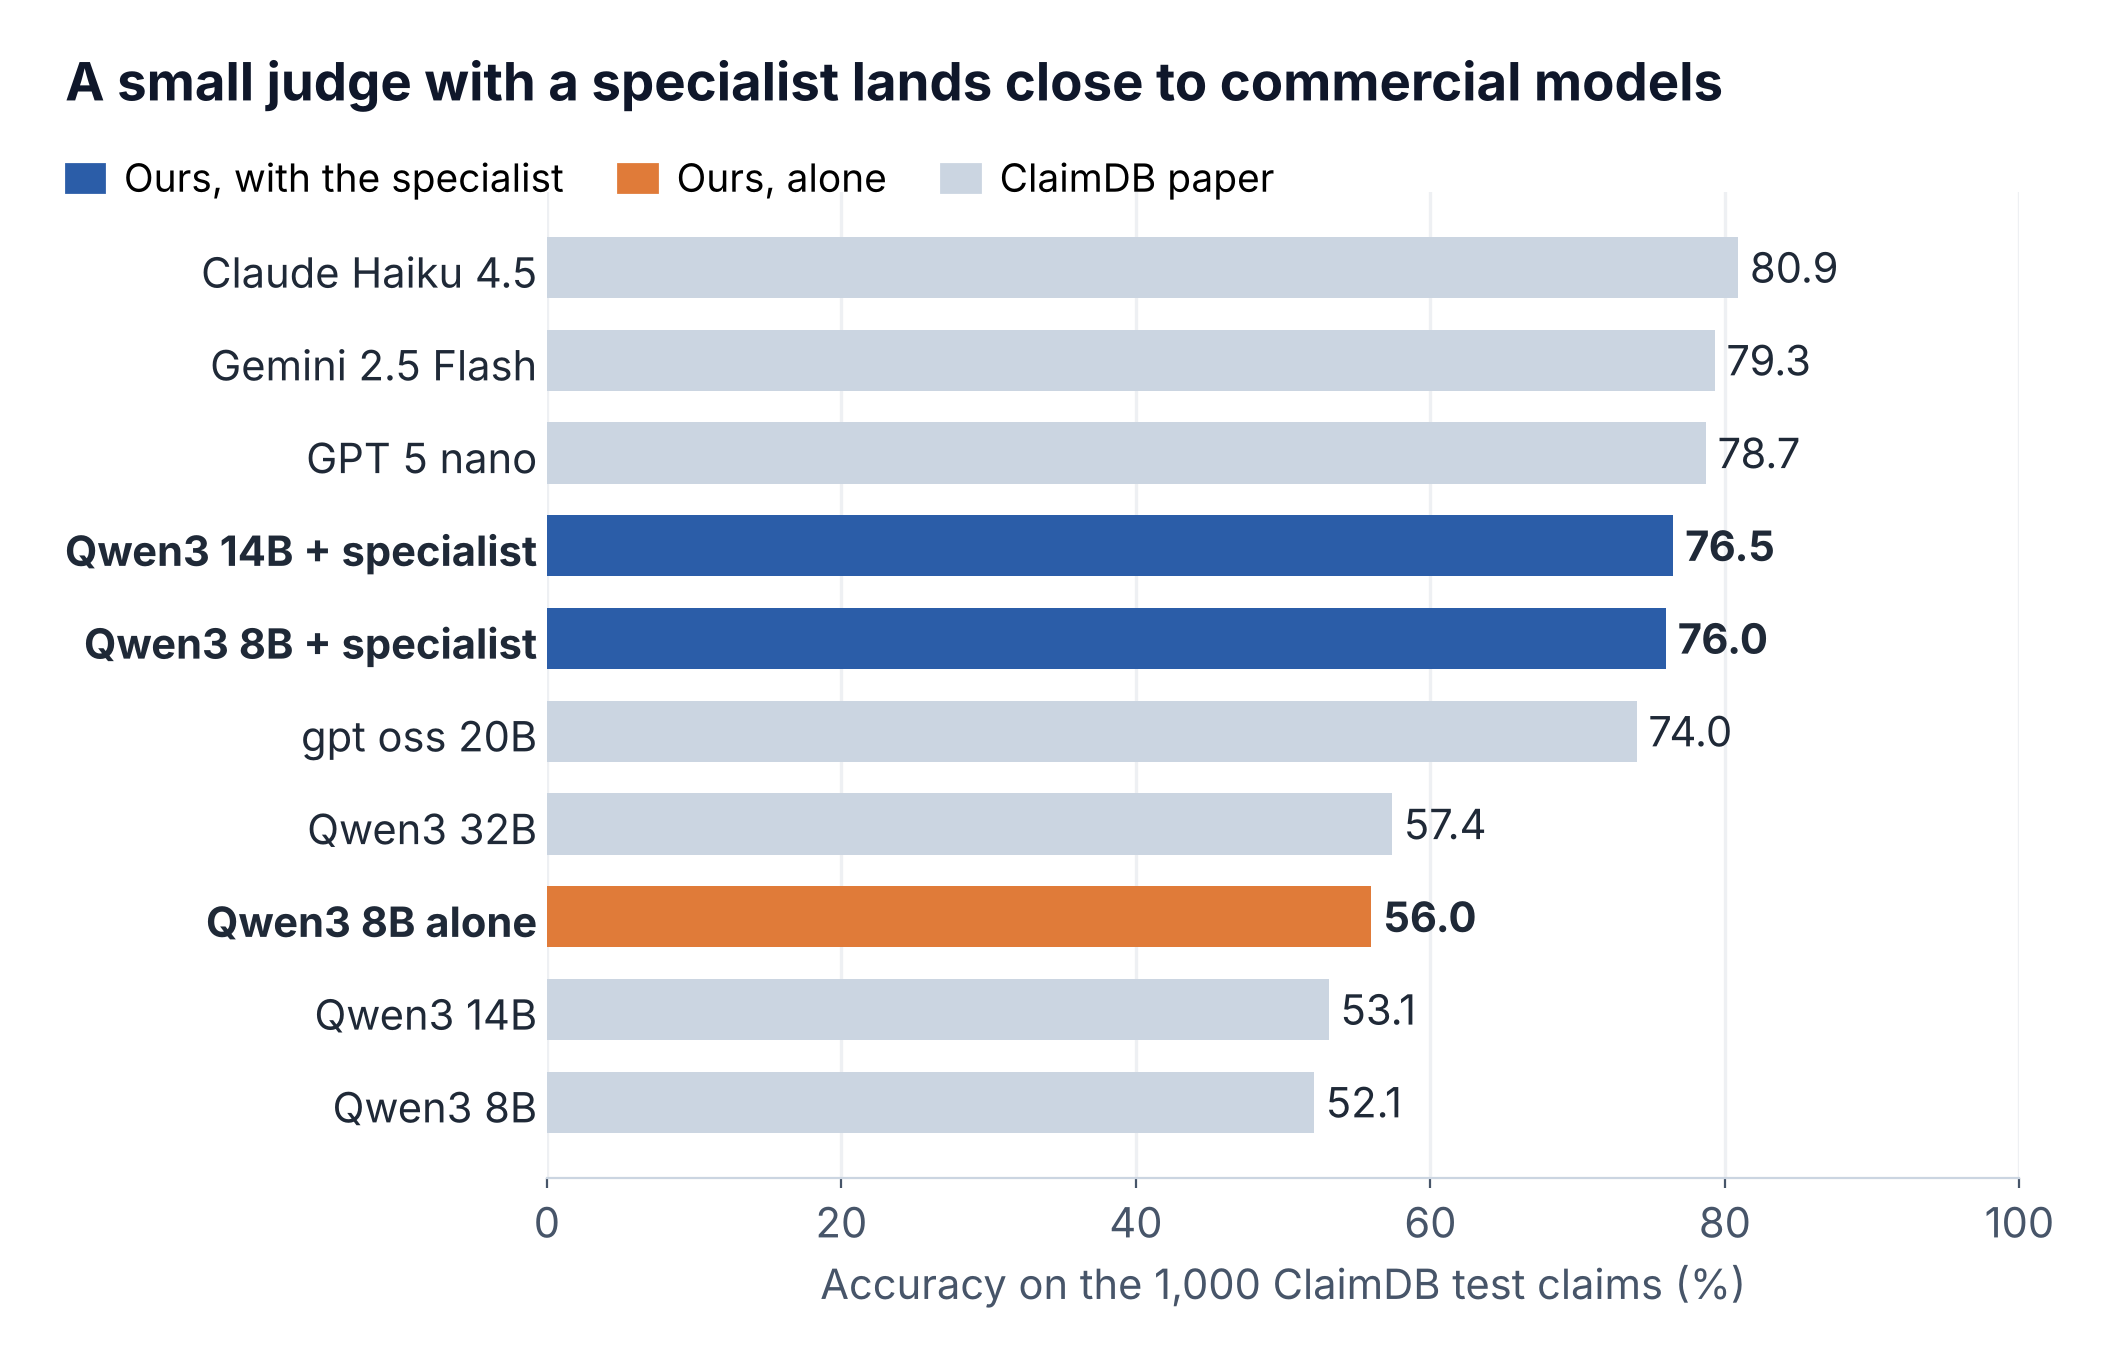
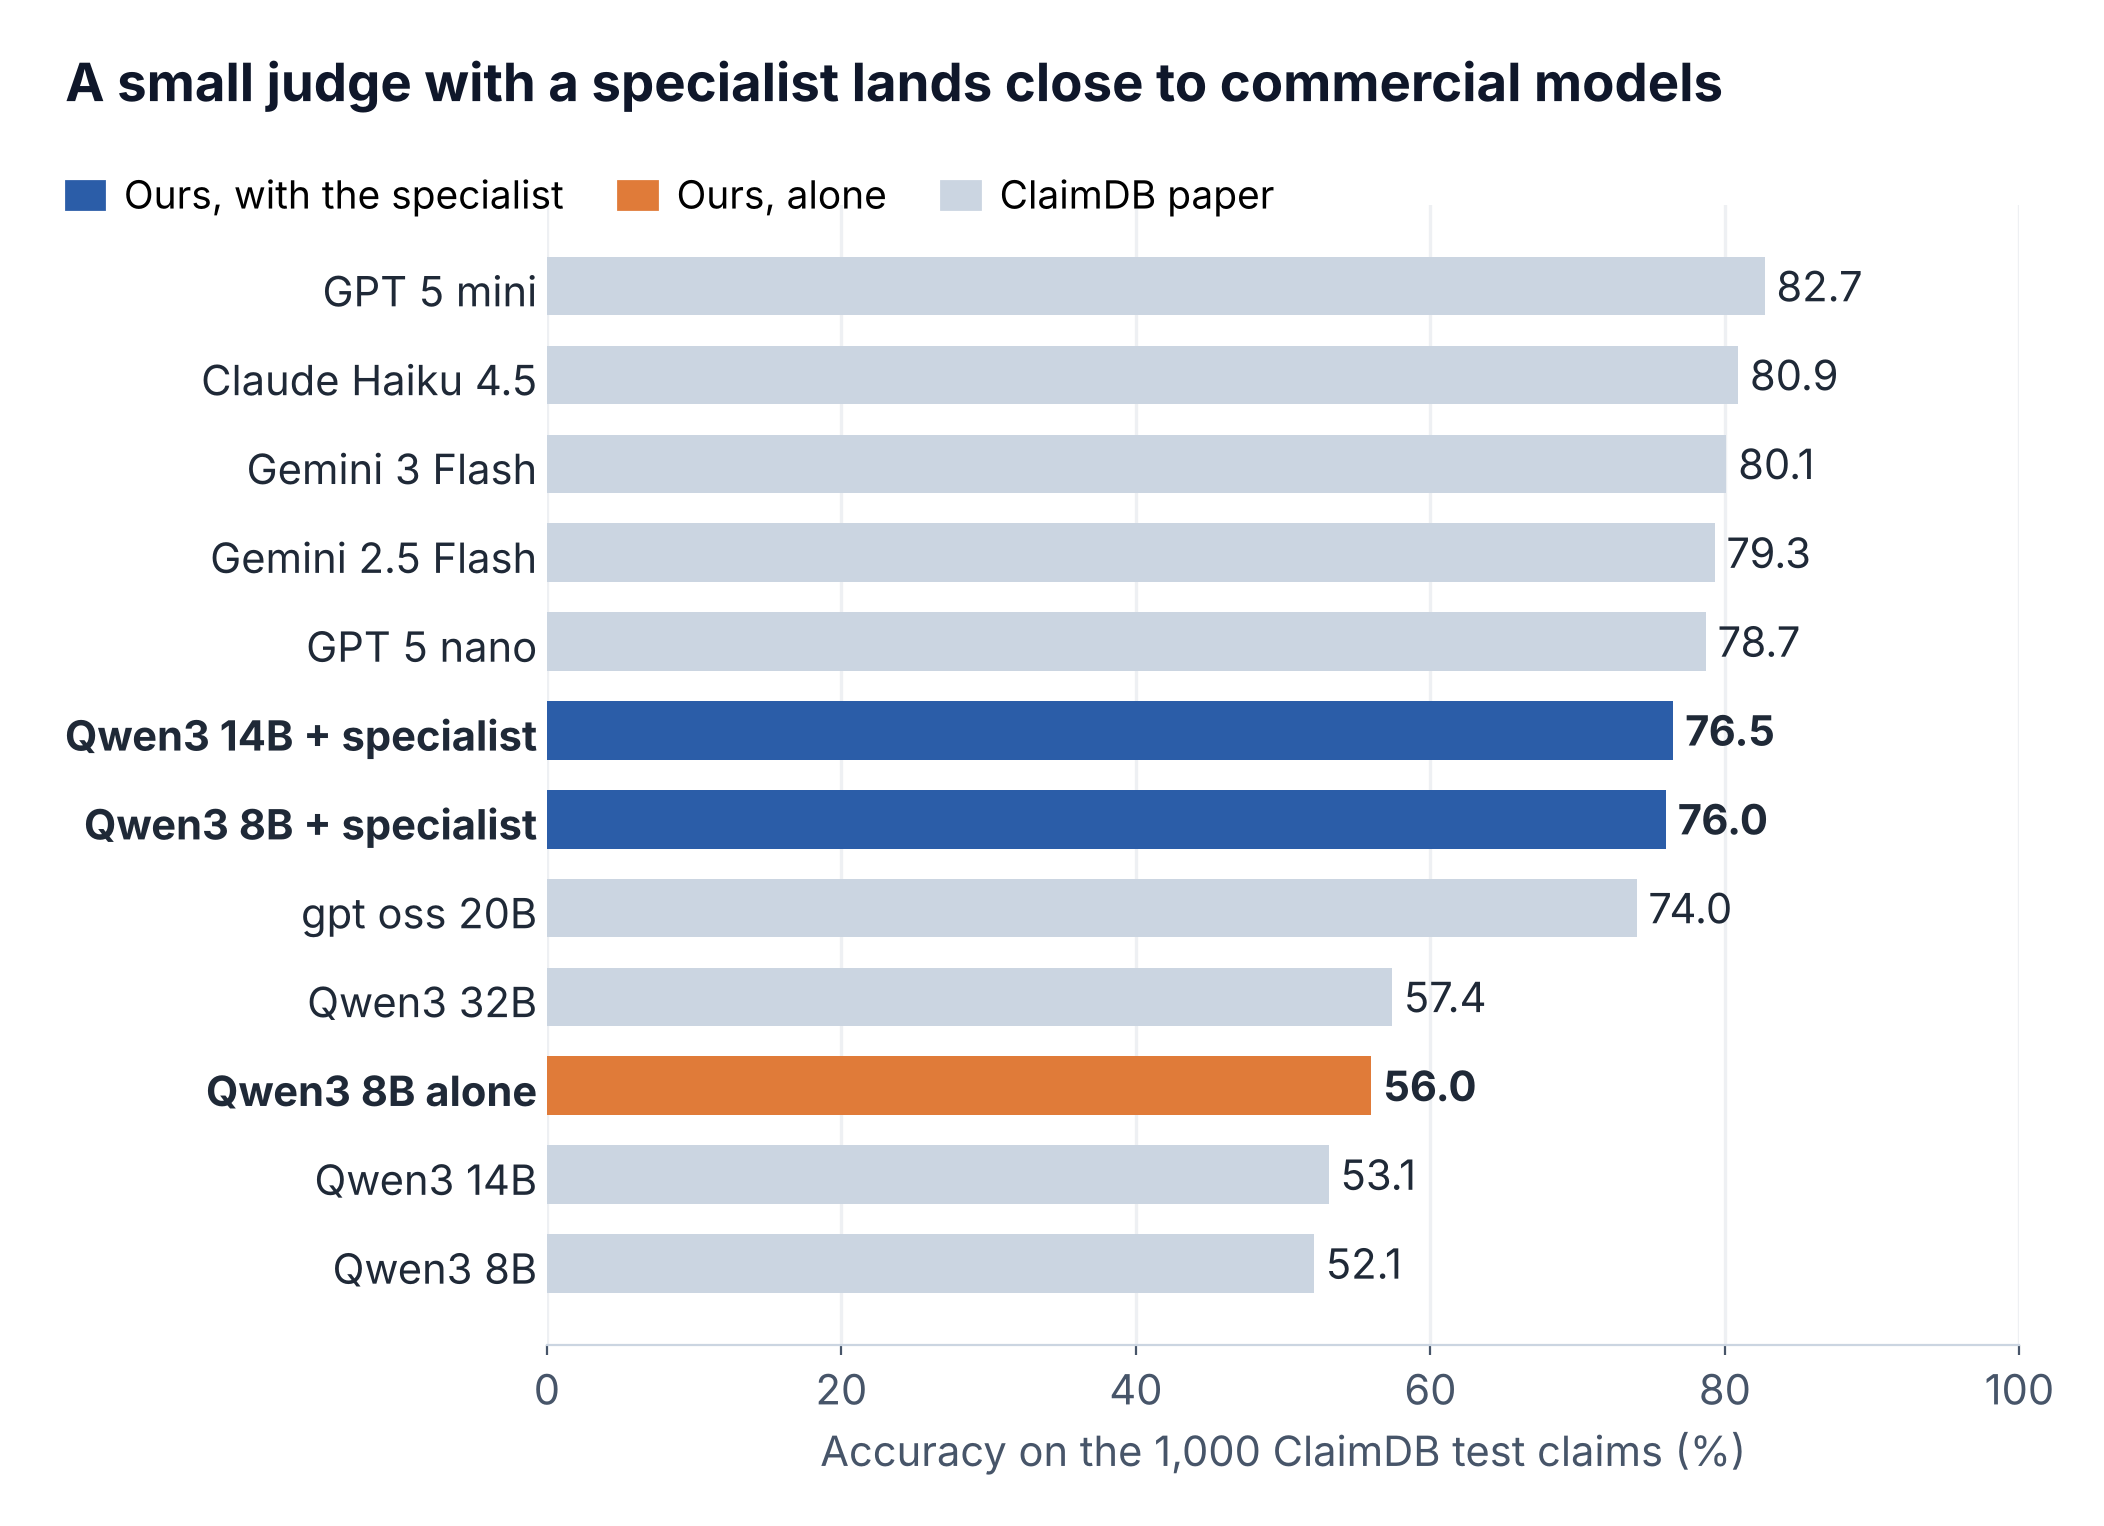
Fixing blog errors

Changed region(s): [[0.0309, 0.1236, 0.8959, 0.9581], [0.0309, 0.0309, 0.8341, 0.0927], [0.9268, 0.8653, 0.9886, 0.9272]]

diff --git a/Kanishk/blog/v3/blog.html b/Kanishk/blog/v3/blog.html
@@ -43,7 +43,7 @@ code{font-family:'DejaVu Sans Mono',monospace;font-size:16px;background:#f3f4f6;
 
 <h2>Related work</h2>
 <h3>Checking claims against tables and databases</h3>
-<p>Early work checked claims against small tables that fit inside the model's input. TabFact <a href="#r3">[3]</a> is the best known example, with claims about Wikipedia tables. Real databases are far too big for that, so newer systems let an LLM query the database instead. Thucy <a href="#r2">[2]</a> uses several cooperating LLM agents to verify claims across relational databases. ClaimDB <a href="#r1">[1]</a> gives a single judge a SQL tool and evaluates 30 models on large databases from BIRD. Both get their best results from large models. In ClaimDB, open models with at most 14B parameters mostly land between 34% and 62%.</p>
+<p>Early work checked claims against small tables that fit inside the model's input. TabFact <a href="#r3">[3]</a> is the best known example, with claims about Wikipedia tables. Real databases are far too big for that, so newer systems let an LLM query the database instead. Thucy <a href="#r2">[2]</a> uses several cooperating LLM agents to verify claims across relational databases. ClaimDB <a href="#r1">[1]</a> gives a single judge a SQL tool and evaluates 30 models on large databases from BIRD. Both get their best results from large models. In ClaimDB, the open models with at most 14B parameters land between 34% and 62%.</p>
 <p>We keep ClaimDB's task and setup but focus on small open judges. We do not train or change the judge. We change the tool it uses, and we study when a cheaper tool is good enough.</p>
 <h3>Text to SQL specialists</h3>
 <p>Text to SQL has improved fast, helped by benchmarks such as BIRD <a href="#r4">[4]</a>. Some 7B models are now trained for nothing else. Arctic Text2SQL R1 7B <a href="#r5">[5]</a> answers 68.9% of BIRD's development questions correctly, according to its authors. OmniSQL <a href="#r6">[6]</a> trains models of several sizes on large amounts of synthetic data. These models answer questions. They were never built to judge whether a claim is true.</p>
@@ -58,7 +58,7 @@ code{font-family:'DejaVu Sans Mono',monospace;font-size:16px;background:#f3f4f6;
 
 <h3>Why small judges fail</h3>
 <p>Take the Scotland claim from above. The answer sits in a football database with seven tables. We gave this claim to Qwen3 8B with ClaimDB's SQL tool. Its first query asked for a table called <code>matches</code>, which does not exist. It then listed the tables and looked inside the <code>Match</code> table. It found no league names there, so it gave up and said NEI. The claim is true. A single join between the <code>League</code> and <code>Match</code> tables shows 228 matches.</p>
-<p>This was not a one off. We went through ClaimDB's released runs for 11 open models with at most 14B parameters. When a judge queried a table or column that does not exist, it got the claim right only 20.8% of the time. When all of its queries ran, it was right 43.8% of the time. Across 19 models, the more failed tool calls a model made, the lower its accuracy (correlation of −0.88). For small models, writing SQL for a database they have never seen looks like the main bottleneck.</p>
+<p>This was not a one off. We went through ClaimDB's released runs for 11 open models with at most 14B parameters, looking only at the true or false claims. When a judge queried a table or column that does not exist, it got the claim right only 20.8% of the time. When all of its queries ran, it was right 43.8% of the time. Across 19 models, the more failed tool calls a model made, the lower its accuracy (correlation of −0.88). For small models, writing SQL for a database they have never seen looks like the main bottleneck.</p>
 
 <h3>Two setups: A and C</h3>
 <p>We compare two setups (Figure 1). They use the same judge, the same prompt and the same answer format. Both allow up to 20 tool calls per claim. Only the tool is different.</p>
@@ -78,7 +78,7 @@ code{font-family:'DejaVu Sans Mono',monospace;font-size:16px;background:#f3f4f6;
 <h4>RQ1: Does a SQL specialist make a small judge more accurate?</h4>
 <p>Yes, by a lot. On its own, Qwen3 8B scores 56.0%, right where the other small open models sit in Figure 3. With the specialist it scores 76.0%. That is a gain of 20.0 points, with a 95% confidence interval of 16.4 to 23.5. Setup C gets 283 claims right that setup A misses, while A gets only 83 that C misses (p &lt; 0.001). C also wins on every one of the 11 databases, by 8.9 to 34.1 points.</p>
 <figure><img src="fig/fig3_vs_claimdb.png"><figcaption><b>Figure 3.</b> Accuracy on the 1,000 ClaimDB test claims. Blue and orange bars are our runs. Grey bars are the numbers reported in the ClaimDB paper, which used its own harness.</figcaption></figure>
-<p>That puts an 8B judge ahead of every open model in the ClaimDB paper, including gpt oss 20B at 74.0%. It is a few points behind GPT 5 nano (78.7%) and Gemini 2.5 Flash (79.3%). We want to be careful with this comparison. Our harness scores the same Qwen3 8B model 3.9 points higher than ClaimDB's did (56.0% against 52.1%). Part of the distance to the grey bars may come from that difference and not from the specialist.</p>
+<p>That puts an 8B judge ahead of every open model in the ClaimDB paper, including gpt oss 20B at 74.0%. It is a few points behind GPT 5 nano (78.7%) and Gemini 2.5 Flash (79.3%), and further behind GPT 5 mini (82.7%). We want to be careful with this comparison. Our harness scores the same Qwen3 8B model 3.9 points higher than ClaimDB's did (56.0% against 52.1%). Part of the distance to the grey bars may come from that difference and not from the specialist.</p>
 <p>Where does the gain come from? Almost entirely from answerable claims. Recall on ENTAILED claims doubles, from 31.5% to 64.9%. On CONTRADICTED claims it rises from 39.3% to 80.1%. The biggest jump is on the 482 claims where setup A had queried a table or column that does not exist. On those, accuracy goes from 43.8% to 73.7%. The judge also needs fewer tool calls, about 1 per claim instead of 2.7, because it no longer has to hunt for the schema.</p>
 
 <h4>RQ2: Does the gain hold for other judges and other specialists?</h4>
@@ -108,7 +108,7 @@ code{font-family:'DejaVu Sans Mono',monospace;font-size:16px;background:#f3f4f6;
 <figure><img src="fig/fig7_claim1005_S_vs_C.gif"><figcaption><b>Figure 7.</b> Claim 1005, which the database cannot answer, in setup S and setup C. These are the exact calls from our runs with Qwen3 8B as the judge.</figcaption></figure>
 
 <h3>The router</h3>
-<p>The router is a small and fast classifier. It turns the claim and its hint into a vector of 768 numbers using a fixed embedding model (nomic embed text). A logistic regression then predicts "yes" or "no". We also tried small neural networks with one and two hidden layers, but they never did better. We trained three routers, and each one answers a different question:</p>
+<p>The router is a small and fast classifier. It turns the claim and its hint into a vector of 768 numbers using a fixed embedding model (nomic embed text). A logistic regression then predicts "yes" or "no". We also tried small neural networks with one and two hidden layers. They were never more than 0.01 AUC better, so we kept the simpler model. We trained three routers, and each one answers a different question:</p>
 <ul>
 <li><b>One table router:</b> does the claim need exactly one table?</li>
 <li><b>Two table router:</b> does the claim need two tables or fewer?</li>
@@ -131,8 +131,8 @@ code{font-family:'DejaVu Sans Mono',monospace;font-size:16px;background:#f3f4f6;
 <p>The last column of Table 2 tests an even simpler rule. When the unanswerable router says "yes", we skip the judge and answer NEI directly. This helps the weakest judges the most. Llama 3.2 3B rises from 44.3% to 53.8% (p = 0.002). On all 1,000 claims, the same rule lifts Qwen3 4B from 68.3% to 72.1% and the two Llama judges by 8 and 11 points. We report this with some caution. For those claims the router makes the call instead of the judge. The router also leans on the way ClaimDB happens to word its unanswerable claims.</p>
 
 <h3>What did not work</h3>
-<p><b>Routing by table count.</b> We expected S to shine on claims that need just one table, since one lookup should be enough. On the 215 claims that truly need one table, S scored 74.9% and C scored 76.7%. That is a tie, and S is a third faster. The trouble is the router. It only sees the claim's text, but the number of tables depends on how the database is organised. The same sentence can need one table in one database and a join in another. On the 210 claim subset, the one table router sent 75 claims to S, and only 41 of them truly needed one table. The two table router also sends claims that need a join, and S cannot join tables in one call.</p>
-<p><b>S on one table claims.</b> We read all 54 one table claims that S got wrong (Figure 11). In 30 of them, the judge fetched data and then made the wrong ENTAILED or CONTRADICTED call. Three gaps explain most of these. (1) The lookup tool has no date functions. (2) It cannot compute percentages. (3) The judge sometimes picks the wrong column. Take the claim "236 users created their accounts after 2013". Checking it needs the year of each account's creation date. The form compared the whole date with 2013, so S counted 3,278 users and said CONTRADICTED. In 9 other cases, the judge never made a lookup at all and just answered NEI.</p>
+<p><b>Routing by table count.</b> We expected S to shine on claims that need just one table, since one lookup should be enough. On the 215 claims that truly need one table, S scored 74.9% and C scored 76.7%. That is a tie, and S is a third faster. The trouble is the router. It only sees the claim's text, but the number of tables depends on how the database is organised. The same sentence can need one table in one database and a join in another. On the 210 claim subset, the one table router sent 75 claims to S. Only 23 of them truly needed one table, and it missed 18 of the 41 that did. The two table router also sends claims that need a join, and S cannot join tables in one call.</p>
+<p><b>S on one table claims.</b> We read all 54 one table claims that S got wrong (Figure 11). In 30 of them, the judge fetched data and then made the wrong ENTAILED or CONTRADICTED call. Three gaps explain most of these. (1) The lookup tool has no date functions. (2) It cannot compute percentages. (3) The judge sometimes picks the wrong column. Take the claim "236 users created their accounts after 2013 and have more than 10 views". Checking it needs the year of each account's creation date. The form compared the whole date with 2013, so S counted 3,278 users and said CONTRADICTED. In 9 other cases, the judge never made a lookup at all. Eight of those answered NEI and one guessed ENTAILED.</p>
 <figure><img src="fig/fig11_S_failures.png"><figcaption><b>Figure 11.</b> Why setup S gets 54 of the 215 one table test claims wrong, with Qwen3 8B as the judge.</figcaption></figure>
 <p><b>Speed.</b> S was supposed to save time by dropping the specialist. Over all 1,000 claims, it saved only 1.8 seconds per claim (27.2 against 29.0 seconds). Most of the time goes into the judge's own reasoning, not into the specialist. The savings only get large on claims that S settles in one or two lookups.</p>
 
@@ -155,7 +155,7 @@ code{font-family:'DejaVu Sans Mono',monospace;font-size:16px;background:#f3f4f6;
 <h3>Resources and credits</h3>
 <p><b>Code and results:</b> <a href="https://github.com/Kushagra-Agnihotri/claimdb-specialist-sql">github.com/Kushagra-Agnihotri/claimdb-specialist-sql</a>. All result files, router outputs and figure scripts are in the <code>Kanishk/</code> folder.</p>
 <p><b>Team:</b> Kushagra Agnihotri, Kanishk Didwania and Navtej Sai Singh Dua, mentored by Prof. Dhruv Kumar, Dr. Krishna Garg and Dr. Chirag Chhablani. Course: [course name and code], BITS Pilani.</p>
-<p><b>AI use:</b> We used Claude to help write code, analyse results and edit the language of this post. We checked every number against our result files.</p>
+<p><b>AI use:</b> We used Claude to help write code, analyse results and edit the language of this post. A script in our repo recomputes every number in this post from the raw result files.</p>
 <p>Thanks to the ClaimDB authors for releasing their benchmark, code and model runs.</p>
 
 <h3>References</h3>

diff --git a/Kanishk/blog/v3/charts.py b/Kanishk/blog/v3/charts.py
@@ -49,10 +49,10 @@ def subtitle(ax, text, y=1.02):
 
 
 # ---------- Figure 3: our judge next to the ClaimDB models ----------
-rows = [("Claude Haiku 4.5", 80.9, GREY), ("Gemini 2.5 Flash", 79.3, GREY), ("GPT 5 nano", 78.7, GREY),
+rows = [("GPT 5 mini", 82.7, GREY), ("Claude Haiku 4.5", 80.9, GREY), ("Gemini 3 Flash", 80.1, GREY), ("Gemini 2.5 Flash", 79.3, GREY), ("GPT 5 nano", 78.7, GREY),
         ("Qwen3 14B + specialist", 76.5, C), ("Qwen3 8B + specialist", 76.0, C), ("gpt oss 20B", 74.0, GREY),
         ("Qwen3 32B", 57.4, GREY), ("Qwen3 8B alone", 56.0, A), ("Qwen3 14B", 53.1, GREY), ("Qwen3 8B", 52.1, GREY)]
-fig, ax = plt.subplots(figsize=(W, 6.4))
+fig, ax = plt.subplots(figsize=(W, 7.4))
 y = list(range(len(rows)))[::-1]
 ax.barh(y, [r[1] for r in rows], color=[r[2] for r in rows], height=0.66)
 ax.set_yticks(y, [r[0] for r in rows])

diff --git a/Kanishk/blog/v3/diagrams.py b/Kanishk/blog/v3/diagrams.py
@@ -264,7 +264,7 @@ fig12 = f"""
 <div class='down' style='font-size:26px;margin:8px 0'>↓</div>
 <div class='ph' style='background:#F5F3FF;border:2px solid {PUR}'><span class='tag' style='background:{PUR}'>Phase 2 · next</span>
 <h3>A router that can see the schema</h3><ul>
-<li>Today the one table router sends 75 claims to S, and only 41 of them need one table.</li>
+<li>Today the one table router sends 75 claims to S, and only 23 of them need one table.</li>
 <li>Fine tune a small language model on 46,486 labelled claims, with the schema as extra input.</li></ul></div>
 <div class='down' style='font-size:26px;margin:8px 0'>↓</div>
 <div class='ph' style='background:#EEF3FB;border:2px solid {C}'><span class='tag' style='background:{C}'>Unchanged</span>
